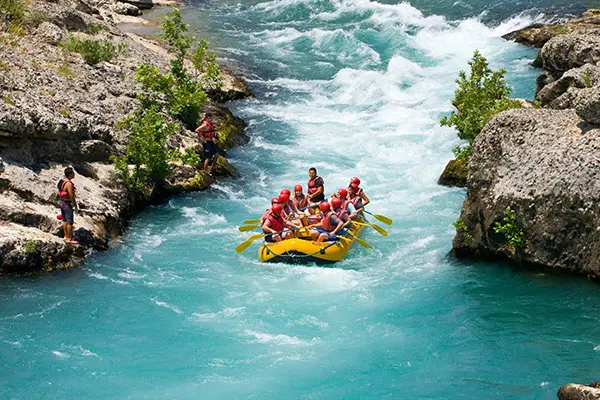
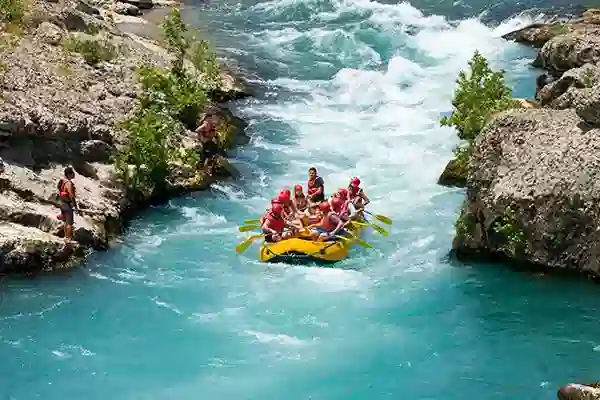
load 500kb

diff --git a/wwr/trips.html b/wwr/trips.html
@@ -91,7 +91,7 @@
                 </div>
                 <div class="three">
                     <figure>
-                        <img src="images/merced.jpg" alt="Merced River" >
+                        <img src="images/merced.webp" alt="Merced River" >
                         <figcaption>
                             <p>
                                 Merced River
@@ -109,7 +109,7 @@
                 </div>
                 <div class="three">
                     <figure>
-                        <img src="images/cherry1.jpg" alt="Cherry Creek" >
+                        <img src="images/cherry1.webp" alt="Cherry Creek" >
                         <figcaption>
                             <p>Cherry Creek (Upper Tuolumne)
                             
